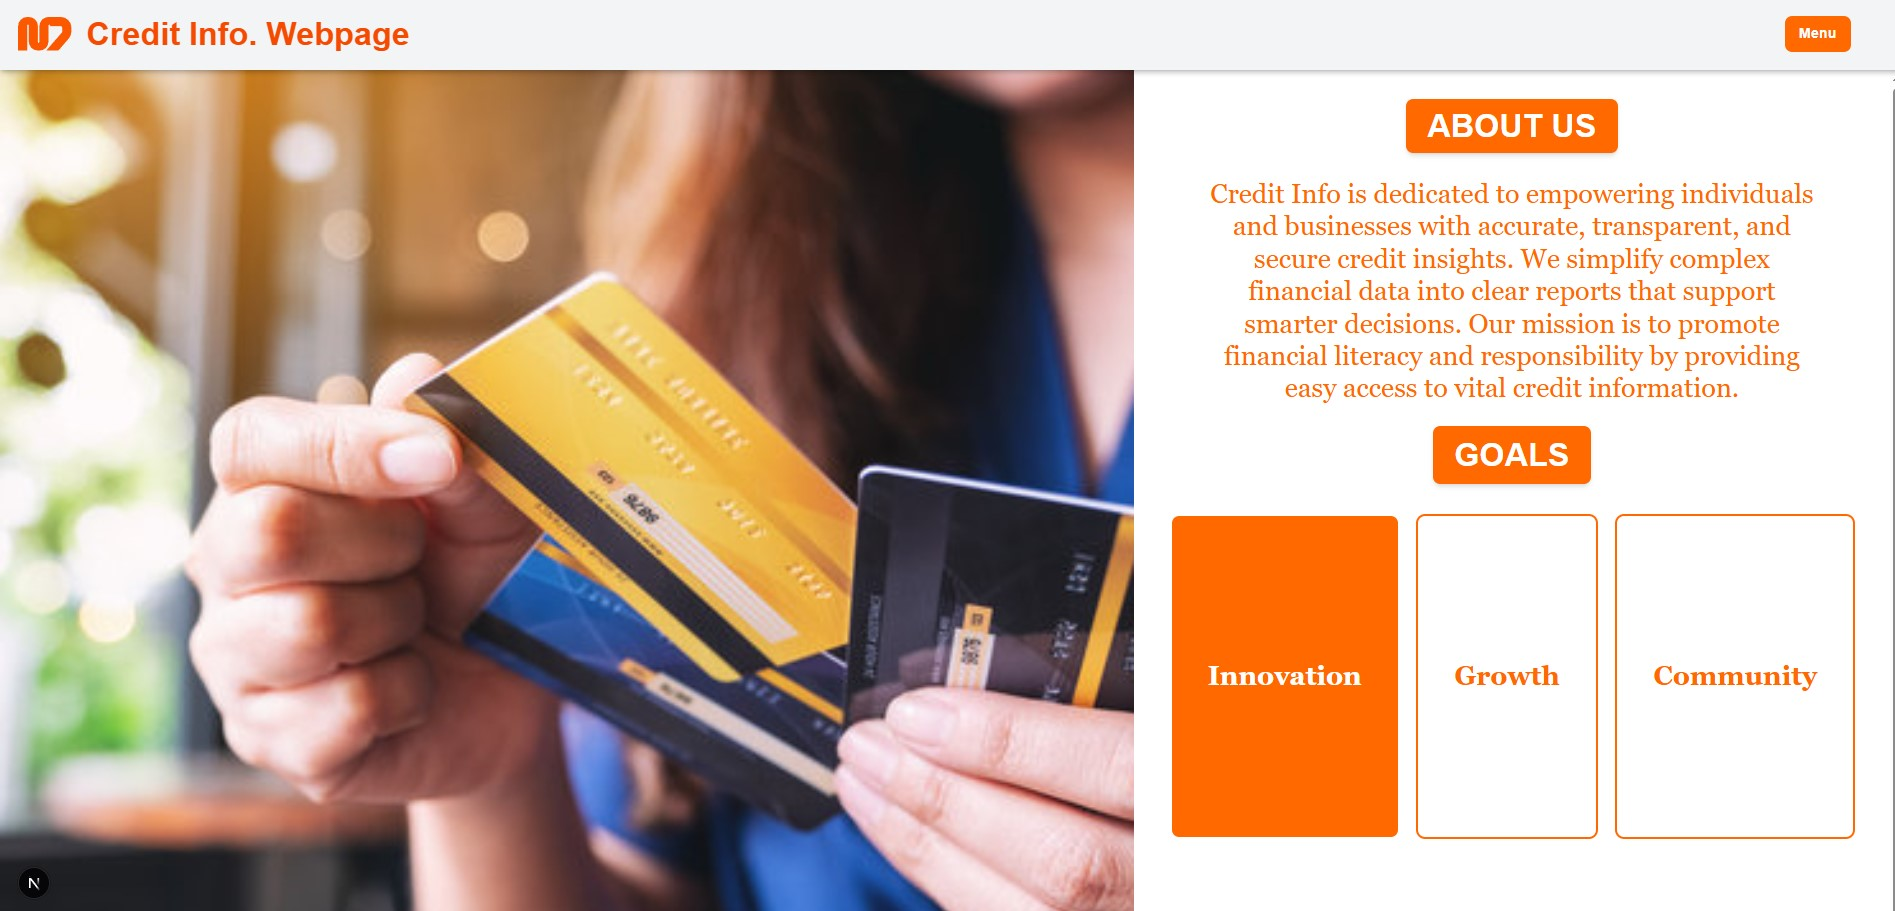
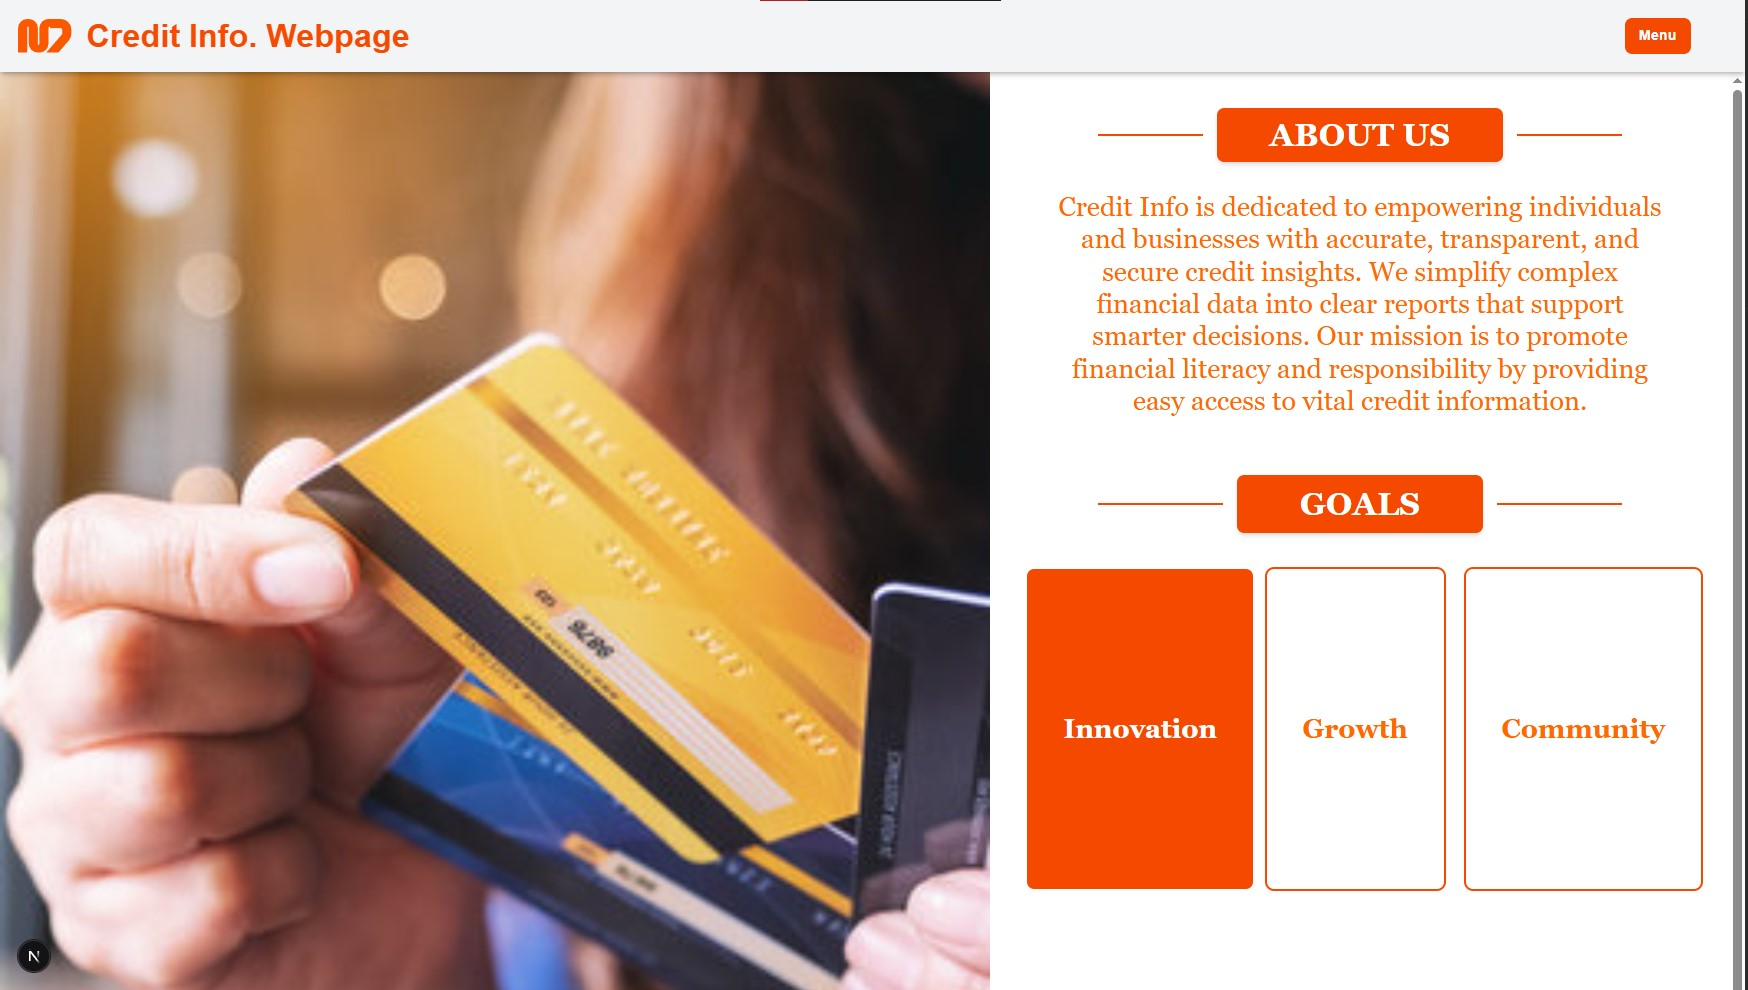
its something ur born with

diff --git a/src/app/page.tsx b/src/app/page.tsx
@@ -18,7 +18,7 @@ export default function Home() {
           <div className="ml-auto mr-10 hidden md:block">
             <button
               onClick={() => setIsOpen(!isOpen)}
-              className="bg-orange-500 text-white px-4 py-2 rounded-lg font-semibold"
+              className="bg-orange-600 text-white px-4 py-2 rounded-lg font-semibold"
             >
               Menu
             </button>
@@ -27,7 +27,7 @@ export default function Home() {
 
         {/* Dropdown */}
         <div
-          className={`absolute top-[80px] right-0 transition-all duration-300 overflow-hidden bg-orange-500 z-20 ${
+          className={`absolute top-[80px] right-0 transition-all duration-300 overflow-hidden bg-orange-600 z-20 ${
             isOpen ? 'max-h-[200px] pr-20 p-5' : 'max-h-0 p-0'
           }`}
         >
@@ -57,20 +57,27 @@ export default function Home() {
         {/* LEFT: Image Section */}
         <div className="flex-[3] h-screen">
           <section className="h-screen w-full">
-            <img src="/stockbs.jpg" alt="Image 1" className="object-cover w-full h-full" />
+            <img src="/stockbs.jpg" alt="Image 1" className="object-cover w-full h-[120%]" />
           </section>
         </div>
 
         {/* RIGHT: ABOUT US Section */}
-        <div className="flex-[2] min-h-screen flex flex-col items-center relative overflow-visible">
+        <div className="flex-[1] min-h-screen flex flex-col items-center relative overflow-visible">
 
+
+          {/* i dont understand why but flex-grow helped me out here to make the line-ABOUT US-line thing, need to look into it more */}
           {/* Title */}
-          <div className="px-6 py-3 h-[60px] rounded-lg bg-orange-500 flex absolute top-8 items-center justify-center shadow-md">
-            <h1 className="text-4xl font-bold text-white whitespace-nowrap ">ABOUT US</h1>
+          <div className= 'flex items-center w-full mt-10 px-30 gap-4 my-1'>
+            <div className="flex-grow h-[3px] bg-orange-600" />
+          <div className="flex-grow h-[60px] rounded-lg  bg-orange-600 flex items-center justify-center shadow-md">
+            <h1 className="text-4xl font-bold text-white font-serif whitespace-nowrap">ABOUT US</h1>
+          </div>
+          <div className="flex-grow h-[3px] bg-orange-600" />
+
           </div>
 
           {/* Paragraph */}
-          <div className="mt-24 px-8 py-6 max-w-[90%] rounded-lg text-orange-500   leading-relaxed">
+          <div className="mt-1 px-8 py-6 max-w-[90%] rounded-lg text-orange-500   leading-relaxed">
             <p className=" text-3xl text-center font-serif">
               Credit Info is dedicated to empowering individuals and businesses with accurate,
               transparent, and secure credit insights. We simplify complex financial data into
@@ -79,49 +86,58 @@ export default function Home() {
             </p>
           </div>
 
-           <div className ="px-6 py-3 rounded-lg bg-orange-500 flex top-110 shadow-md">
-            <h1 className="text-4xl font-bold text-white">GOALS</h1>
+          <div className="flex w-full items-center mt-10 px-30 gap-4 my-1">
+            <div className="flex-grow h-[3px] bg-orange-600" />
+           <div className ="flex-grow  py-3 rounded-lg bg-orange-600 flex items-center justify-center shadow-md">
+            <h1 className="text-4xl font-bold font-serif text-white whitespace-nowrap">GOALS</h1>
            </div>
+            <div className="flex-grow h-[3px] bg-orange-600" />
+          </div>
 
            <div className="mt-3 px-8 py-6 max-w-[90%] flex justify-center rounded-lg gap-6 text-orange-500 relative leading-relaxed ">
 
             {/* im a genius */}
-            <button onMouseEnter={() => setGoal1(!Goal1)} onMouseLeave={()=>setGoal1(!Goal1)}
-            className={`outline outline-3 outline-orange-500 text-orange px-10 py-40 rounded-lg font-bold font-serif text-3xl relative z-10 
+
+            {/* normal button {Innovation} */}
+            <button onMouseEnter={() => setGoal1(true)} onMouseLeave={()=>setGoal1(false)}
+            className={`outline outline-3 outline-orange-600 text-orange px-10 py-40 rounded-lg font-bold font-serif text-3xl relative z-10 
              ${!Goal1 ? 'pr-10 py-10 opacity-100' : 'max-h-0 p-0 opacity-0'} `}>
               Innovation
             </button>     
 
+            {/* Hover animation button {Innovation} */}
             <button 
-            className={`absolute left-0 bg-orange-500 text-white px-10 py-40  overflow-hidden rounded-lg font-bold font-serif text-3xl z-0
+            className={`absolute left-0 bg-orange-600 text-white px-10 py-40  overflow-hidden rounded-lg font-bold font-serif text-3xl z-0
             ${Goal1 ? 'pr-10 py-10 opacity-100' : 'max-h-0 p-0 opacity-0'}`}>
               Innovation
             </button>
 
 
-
-            <button onMouseEnter={()=> setGoal2(!Goal2)} onMouseLeave={()=>setGoal2(!Goal2)}
-            className={`outline outline-3 outline-orange-500 text-orange px-10 py-40 rounded-lg font-bold font-serif text-3xl  relative z-10
+            {/* normal button {Growth} */}
+            <button onMouseEnter={()=> setGoal2(true)} onMouseLeave={()=>setGoal2(false)}
+            className={`outline outline-3 outline-orange-600 text-orange px-10 py-40 rounded-lg font-bold font-serif text-3xl  relative z-10
               ${!Goal2 ? 'pr-10 py-10 opacity-100' : 'max-h-0 p-0 opacity-0'}`
             }>
               Growth
             </button>   
 
+            {/* Hover animation button {Growth} */}
             <button 
-            className={`absolute left-68.5 bg-orange-500 text-white px-10 py-40 rleative  overflow-hidden rounded-lg font-bold font-serif text-3xl z-0
+            className={`absolute left-68.5 bg-orange-600 text-white px-10 py-40 rleative  overflow-hidden rounded-lg font-bold font-serif text-3xl z-0
             ${Goal2 ? 'pr-10 py-10 opacity-100' : 'max-h-0 p-0 opacity-0'}`}>
               Growth
             </button>
 
-
-            <button onMouseEnter={()=> setGoal3(!Goal3)} onMouseLeave={()=>setGoal3(!Goal3)} 
-            className={`outline outline-3 outline-orange-500 text-orange px-10 py-40 rounded-lg font-bold font-serif text-3xl  relative z-10
+            {/* normal button {Community} */}
+            <button onMouseEnter={()=> setGoal3(true)} onMouseLeave={()=>setGoal3(false)} 
+            className={`outline outline-3 outline-orange-600 text-orange px-10 py-40 rounded-lg font-bold font-serif text-3xl  relative z-10
             ${!Goal3 ? 'pr-10 py-10 opacity-100' : 'max-h-0 p-0 opacity-0'}`}>
               Community 
             </button>    
-              
+
+             {/* Hover animation button {Community} */}   
             <button 
-            className={`absolute right-0 bg-orange-500 text-white px-10 py-40 rleative  overflow-hidden rounded-lg font-bold font-serif text-3xl z-0
+            className={`absolute right-0 bg-orange-600 text-white px-10 py-40 rleative  overflow-hidden rounded-lg font-bold font-serif text-3xl z-0
             ${Goal3 ? 'pr-10 py-10 opacity-100' : 'max-h-0 p-0 opacity-0'}`}>
               Community
             </button>

diff --git a/src/app/register/page.tsx b/src/app/register/page.tsx
@@ -29,7 +29,7 @@ export default function RegisterPage() {
 
       <div className="flex ml-15 mt-10 space-x-3 mr-10">
     <img src="/logoipsum-377.svg" alt="Logo" className="h-15 w-15" />
-    <h1 className="text-4xl font-bold text-black mt-3 ml-2">Credit Info. Website</h1>
+    <h1 className="text-4xl font-bold text-orange-600 mt-3 ml-2">Credit Info. Webpage</h1>
     </div>
 
     <div className="p-20 mt-10 space-y-6">
